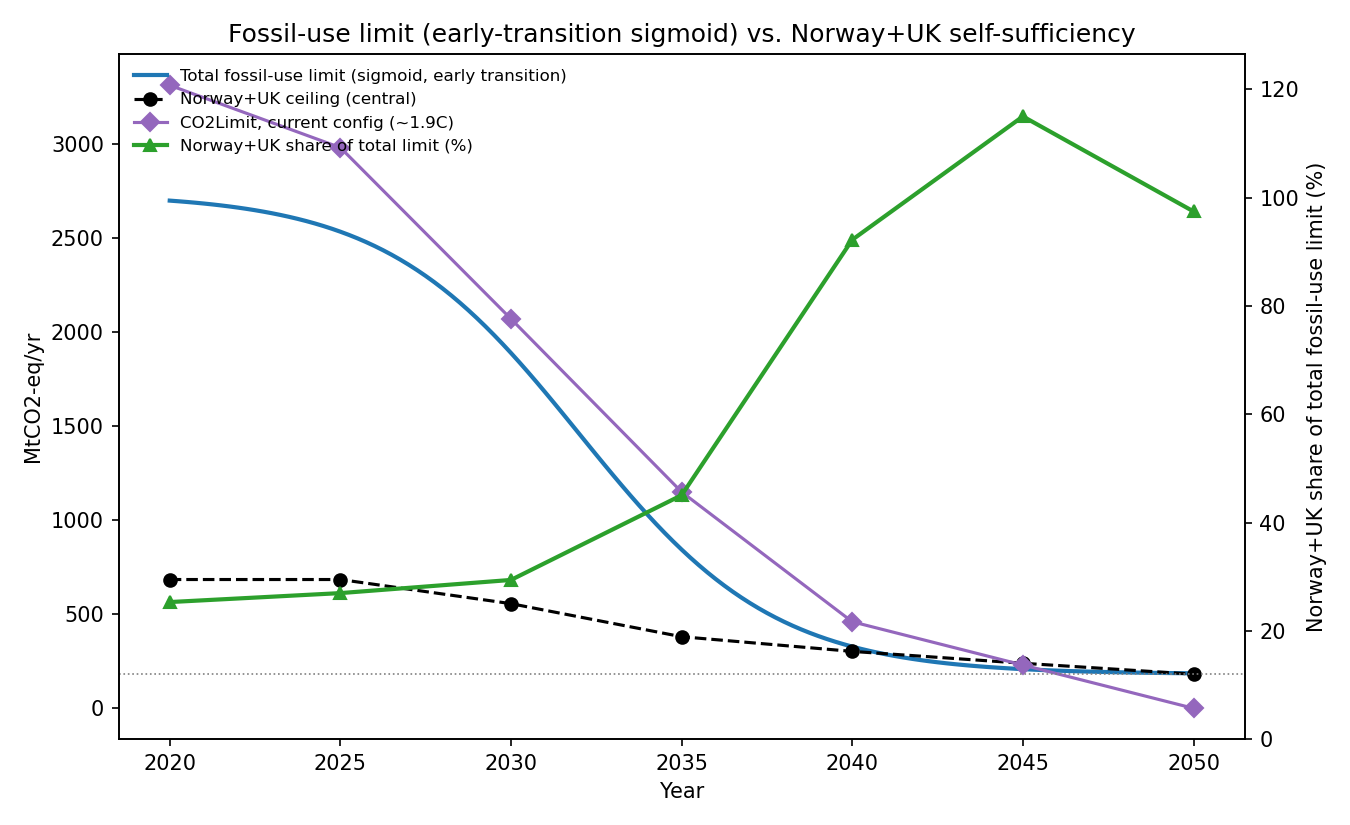
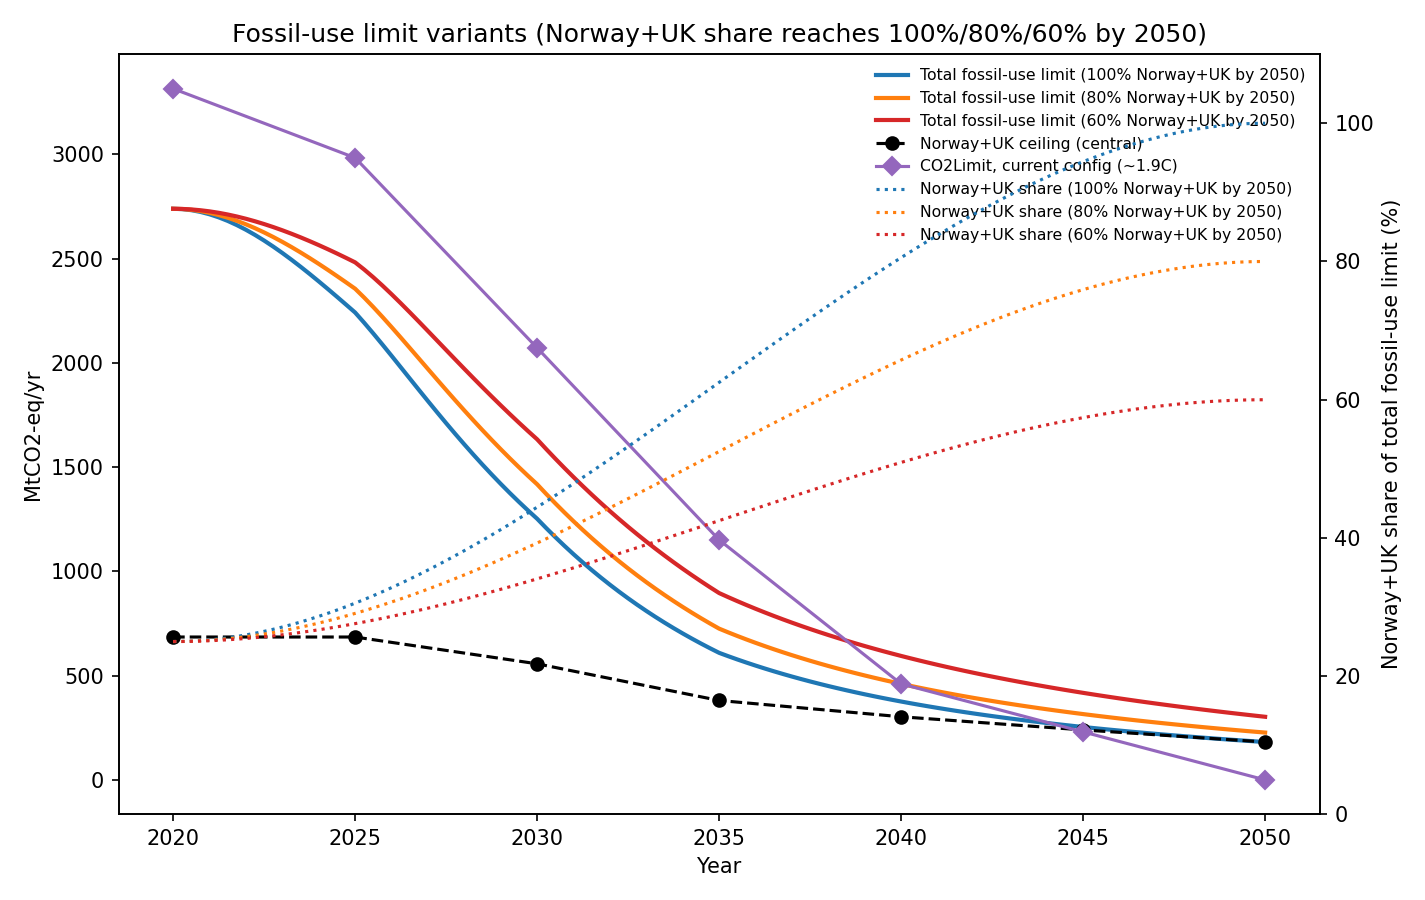
Rebuild fossil-limit curves so Norway+UK share is bounded by construction
The previous single "early transition" sigmoid was picked freehand and
then checked for its Norway+UK share after the fact -- which broke,
producing a >100% share at 2045 for that variant (physically impossible:
can't supply more than exists).

New method: define the SHARE curve directly (NO+UK(t) / limit(t)) using a
smoothstep polynomial (3x^2-2x^3) that starts at the real 2020 share
(~25.0%, NO+UK(2020)/ANCHOR_2020) and hits an EXACT target share at 2050
(unlike a logistic sigmoid, which only approaches its asymptote). Then
invert to get the total-limit curve: limit(t) = NO+UK(t) / share(t).

Three variants (100%/80%/60% Norway+UK self-sufficiency by 2050), same
shape, different target -- restoring the three-curve comparison the user
asked to see again, with dotted share curves on the secondary axis
colour-matched to their corresponding solid total-limit curve. All three
necessarily agree at 2020 by construction.

Notable finding: the 80%-by-2050 variant's 2040 value (460.5) lands
almost exactly on the current CO2Limit's 2040 value (460.4). All three
variants' 2050 floors sit above CO2Limit's 2050 value of zero, reinforcing
the earlier-flagged security-vs-net-zero tension.

diff --git a/text_docs/scripts/build_fossil_supply_security.py b/text_docs/scripts/build_fossil_supply_security.py
@@ -113,21 +113,51 @@ ceiling[2020] = no_mtco2(2020) + uk_mtco2(2025)  # no UK trend info before 2025;
 FLOOR_2050 = ceiling[2050]
 
 # ---------------------------------------------------------------------------
-# Sigmoid total-fossil-limit transition: ceiling (2020 anchor) -> floor (2050,
-# European-safe supply). Reference: the "early, steep" variant (t0=2032,
-# k=0.35) -- chosen because, unlike the central/late variants, it actually
-# reaches the Norway+UK floor by 2050 rather than still being well above it.
-def sigmoid(year, t0, k, top=ANCHOR_2020_MTCO2, bottom=FLOOR_2050):
-    return bottom + (top - bottom) / (1 + np.exp(k * (year - t0)))
+# Total-fossil-limit curves, constructed so the Norway+UK share is bounded
+# by construction (never exceeds its own 2050 target) rather than picked
+# freehand and checked after the fact (which is how the earlier draft ended
+# up with a >100% share at 2045).
+#
+# Method: define a SHARE curve share(t) = NO+UK(t) / TOTAL(t) directly,
+# using a smoothstep polynomial (3x^2 - 2x^3, x in [0,1]) that starts at the
+# real, empirically-grounded 2020 share (NO+UK(2020) / ANCHOR_2020, ~25%)
+# and reaches EXACTLY a chosen target share at 2050 -- smoothstep is a
+# genuine polynomial, monotonic, and hits both endpoints exactly (unlike a
+# logistic sigmoid, which only approaches its asymptote). Then invert:
+# TOTAL(t) = NO+UK(t) / share(t). Three variants share the same shape,
+# scaled to different 2050 targets (100% / 80% / 60% self-sufficiency),
+# per your request -- all three necessarily agree at 2020 (they all reduce
+# to TOTAL(2020) = ANCHOR_2020 exactly, since share(2020) is defined as
+# NO+UK(2020)/ANCHOR_2020 for every variant).
+def ceiling_continuous(year):
+    return no_mtco2(year) + (uk_mtco2(year) if year >= 2025 else uk_mtco2(2025))
 
-REFERENCE = dict(t0=2032, k=0.35)  # "early transition"
+def smoothstep(x):
+    x = np.clip(x, 0.0, 1.0)
+    return 3 * x**2 - 2 * x**3
+
+SHARE_2020 = ceiling_continuous(2020) / ANCHOR_2020_MTCO2
+
+SHARE_TARGETS = {
+    "100% Norway+UK by 2050": 1.00,
+    "80% Norway+UK by 2050": 0.80,
+    "60% Norway+UK by 2050": 0.60,
+}
+VARIANT_COLORS = {
+    "100% Norway+UK by 2050": "tab:blue",
+    "80% Norway+UK by 2050": "tab:orange",
+    "60% Norway+UK by 2050": "tab:red",
+}
+
+def share_curve(year, target):
+    x = (year - 2020) / (2050 - 2020)
+    return SHARE_2020 + (target - SHARE_2020) * smoothstep(x)
+
+def total_curve(year, target):
+    return ceiling_continuous(year) / share_curve(year, target)
 
 years_fine = np.linspace(2020, 2050, 121)
 ceiling_years = sorted(ceiling)
-
-sig_years = YEARS
-sig_vals = {y: sigmoid(y, **REFERENCE) for y in sig_years}
-ratio = {y: 100 * ceiling[y] / sig_vals[y] for y in sig_years}
 
 # Current CO2Limit trajectory (net, CCS-credited), from this config's
 # co2_budget fractions of 1990 levels -- corresponds to a ~1.9C global
@@ -141,29 +171,33 @@ CO2LIMIT_1P9C = {2020: 3314.9, 2025: 2983.3, 2030: 2071.8, 2035: 1151.0,
                  2040: 460.4, 2045: 230.2, 2050: 0.0}
 
 # ---------------------------------------------------------------------------
-# Single combined plot: left axis = MtCO2-eq/yr (sigmoid, NO+UK ceiling,
-# CO2Limit); right axis = NO+UK share of the sigmoid (%).
-fig, ax1 = plt.subplots(figsize=(9, 5.5))
-ax1.plot(years_fine, [sigmoid(y, **REFERENCE) for y in years_fine], color="tab:blue", lw=2,
-          label="Total fossil-use limit (sigmoid, early transition)")
+# Single combined plot: left axis = MtCO2-eq/yr (three total-limit curves,
+# NO+UK ceiling, CO2Limit); right axis = the three share curves, dotted,
+# each colour-matched to its total-limit curve.
+fig, ax1 = plt.subplots(figsize=(9.5, 6))
+ax2 = ax1.twinx()
+
+for label, target in SHARE_TARGETS.items():
+    color = VARIANT_COLORS[label]
+    ax1.plot(years_fine, [total_curve(y, target) for y in years_fine], color=color, lw=2,
+              label=f"Total fossil-use limit ({label})")
+    ax2.plot(years_fine, [100 * share_curve(y, target) for y in years_fine], color=color,
+              lw=1.5, ls=":", label=f"Norway+UK share ({label})")
+
 ax1.plot(ceiling_years, [ceiling[y] for y in ceiling_years], "o--", color="black", lw=1.5,
           label="Norway+UK ceiling (central)")
 ax1.plot(list(CO2LIMIT_1P9C), list(CO2LIMIT_1P9C.values()), "D-", color="tab:purple",
           lw=1.5, label="CO2Limit, current config (~1.9C)")
-ax1.axhline(FLOOR_2050, color="grey", lw=0.8, ls=":")
 ax1.set_xlabel("Year")
 ax1.set_ylabel("MtCO2-eq/yr")
 
-ax2 = ax1.twinx()
-ax2.plot(sig_years, [ratio[y] for y in sig_years], "^-", color="tab:green", lw=2,
-          label="Norway+UK share of total limit (%)")
 ax2.set_ylabel("Norway+UK share of total fossil-use limit (%)")
-ax2.set_ylim(0, max(110, max(ratio.values()) * 1.1))
+ax2.set_ylim(0, 110)
 
 lines1, labels1 = ax1.get_legend_handles_labels()
 lines2, labels2 = ax2.get_legend_handles_labels()
-ax1.legend(lines1 + lines2, labels1 + labels2, loc="upper left", fontsize=8)
-ax1.set_title("Fossil-use limit (early-transition sigmoid) vs. Norway+UK self-sufficiency")
+ax1.legend(lines1 + lines2, labels1 + labels2, loc="upper right", fontsize=7.5)
+ax1.set_title("Fossil-use limit variants (Norway+UK share reaches 100%/80%/60% by 2050)")
 fig.tight_layout()
 fig.savefig(f"{out_dir}/fossil_supply_security.png", dpi=150)
 plt.close(fig)
@@ -174,11 +208,13 @@ for y in ceiling_years:
     print(f"  {y}: NO={no_mtco2(y):.1f}  UK={uk_mtco2(y) if y>=2025 else float('nan'):.1f}  total={ceiling[y]:.1f}")
 print(f"\nUK decay fit: e0={UK_E0_TWH:.1f} TWh/yr, budget={UK_BUDGET_TWH:.1f} TWh, m={UK_M:.4f}/yr")
 print(f"UK blended intensity: {UK_BLENDED_INTENSITY:.4f} tCO2/MWh")
-print(f"\nFLOOR_2050 (Norway+UK central): {FLOOR_2050:.1f} MtCO2-eq/yr")
+print(f"\nSHARE_2020 (Norway+UK / ANCHOR_2020): {SHARE_2020*100:.1f}%")
 print(f"ANCHOR_2020: {ANCHOR_2020_MTCO2} MtCO2-eq/yr")
-print("\nEarly-transition sigmoid vs Norway+UK ceiling vs CO2Limit, and ratio:")
-for y in sig_years:
-    print(f"  {y}: sigmoid={sig_vals[y]:.1f}  NO+UK_ceiling={ceiling[y]:.1f}  "
-          f"CO2Limit={CO2LIMIT_1P9C.get(y)}  ratio={ratio[y]:.1f}%")
+print("\nThree total-limit variants vs Norway+UK ceiling vs CO2Limit:")
+for label, target in SHARE_TARGETS.items():
+    print(f"\n-- {label} --")
+    for y in YEARS:
+        print(f"  {y}: total={total_curve(y, target):.1f}  NO+UK_ceiling={ceiling[y]:.1f}  "
+              f"CO2Limit={CO2LIMIT_1P9C.get(y)}  share={100*share_curve(y, target):.1f}%")
 
 print(f"\nSaved {out_dir}/fossil_supply_security.png")

diff --git a/text_docs/text/fossil_supply_security_methodology.md b/text_docs/text/fossil_supply_security_methodology.md
@@ -44,9 +44,26 @@ conserved physical quantity (bounded by geology, not politics). The UK
 component of the Norway+UK ceiling (Section 4.2) legitimately reuses the
 exact Victoria et al. formula for exactly this reason.
 
-## 3. The sigmoid — total fossil-use limit, 2020-2050
+## 3. The total fossil-use limit curves, 2020-2050
 
-`limit(t) = floor + (ceiling - floor) / (1 + exp(k(t - t0)))`
+**Construction method (revised)**: an earlier draft picked a sigmoid shape
+`limit(t) = floor + (ceiling - floor) / (1 + exp(k(t-t0)))` freehand and
+then *checked* the resulting Norway+UK share after the fact — which broke,
+producing a >100% share at 2045 for one variant. The share cannot exceed
+100% by definition (Norway+UK cannot supply more than exists), so the
+share needs to be bounded **by construction**, not by accident.
+
+Fixed method: define the **share** curve `share(t) = NO+UK(t) / limit(t)`
+directly, using a **smoothstep polynomial** `3x^2 - 2x^3` (`x` normalized
+to [0,1] over 2020-2050) — a genuine polynomial, monotonic, and one that
+hits both of its endpoints *exactly* (unlike a logistic sigmoid, which only
+asymptotically approaches its limit). `share(2020)` is fixed at the real,
+empirically-grounded value `NO+UK(2020) / ceiling` (~25.0%) for every
+variant; `share(2050)` is set to a chosen target (100%, 80%, or 60%
+self-sufficiency). Then invert: `limit(t) = NO+UK(t) / share(t)`. Because
+all three variants share the same `share(2020)`, they necessarily all
+start at exactly the same 2020 point (`limit(2020) = ceiling` for every
+variant), diverging only as they head toward different 2050 outcomes.
 
 - **Ceiling** (2020, genuine historical actual — not a proxy): **2739.0
   MtCO2-eq/yr**. Computed from **Eurostat's Complete Energy Balances**
@@ -79,16 +96,23 @@ exact Victoria et al. formula for exactly this reason.
   this config's own assumed `fossil_limit_values[2025] = 2600` — a
   reassuring independent cross-validation of that existing assumption.
 - **Floor** (2050): the Norway+UK production ceiling, **181.6 MtCO2-eq/yr**
-  central case (Section 4).
-- **t0, k** (inflection year, steepness): three shapes were originally
-  compared (early/steep, central/medium, late/gradual). **"Early transition"
-  (t0=2032, k=0.35) is now used as the single reference curve**, because it
-  is the only one of the three that actually reaches the Norway+UK floor by
-  2050 (186.3 MtCO2-eq at 2050, vs. the floor's 181.6) — the central and
-  late variants were still well above the floor at 2050, which would have
-  meant "European-safe by 2050" wasn't actually achieved under those
-  shapes. This is still a placeholder choice for discussion, not derived
-  from anything beyond that consistency requirement.
+  central case (Section 4) — this is exactly the "100% by 2050" variant's
+  endpoint; the 80% and 60% variants have higher 2050 endpoints (227.0 and
+  302.7 MtCO2-eq respectively), since they deliberately leave room for
+  non-European sources (Africa pipeline + LNG) even at 2050.
+- **Three variants**, same shape, different 2050 self-sufficiency target:
+
+  | Variant | Share(2020) | Share(2050) | Total limit(2050) |
+  |---|---:|---:|---:|
+  | 100% Norway+UK by 2050 | 25.0% | 100.0% | 181.6 |
+  | 80% Norway+UK by 2050 | 25.0% | 80.0% | 227.0 |
+  | 60% Norway+UK by 2050 | 25.0% | 60.0% | 302.7 |
+
+  The shape/steepness itself (how fast the share climbs between 2020 and
+  2050) is still a free choice baked into the smoothstep polynomial's fixed
+  form — this is the remaining "shape matters in the middle years"
+  question, now scoped to just that, rather than also needing to separately
+  verify the share stays bounded.
   See `fossil_supply_security.png` (single combined figure, Section 4.3).
 
 ## 4. The Norway+UK ceiling ("European-safe" fossil supply)
@@ -152,35 +176,46 @@ downloaded but is the 2019 vintage, not the current one — see open items).
 
 ### 4.3. Combined ceiling and comparison
 
-| Year | Norway (MtCO2eq) | UK (MtCO2eq) | **NO+UK ceiling** | Sigmoid (early transition) | CO2Limit (~1.9C) | NO+UK share of sigmoid |
-|-----:|------:|------:|------:|------:|------:|------:|
-| 2020 | 529.3 | (n/a, held at 2025 rate) | 685.2 | 2701.2 | 3314.9 | 25.4% |
-| 2025 | 529.3 | 156.0 | 685.2 | 2535.8 | 2983.3 | 27.0% |
-| 2030 | 468.3 |  88.5 | 556.8 | 1890.4 | 2071.8 | 29.5% |
-| 2035 | 348.5 |  32.4 | 380.9 |  844.5 | 1151.0 | 45.1% |
-| 2040 | 292.6 |  10.2 | 302.8 |  328.2 |  460.4 | 92.3% |
-| 2045 | 236.7 |   3.0 | 239.7 |  208.3 |  230.2 | **115.0%** |
-| 2050 | 180.8 |   0.8 | 181.6 |  186.3 |    0.0 | 97.5% |
+All three variants share the same 2020 point (`limit(2020) = 2739.0`,
+`share = 25.0%`) by construction, and reach their target share EXACTLY at
+2050 — no more checking after the fact whether the share exceeded 100%.
 
-**The key finding**: under the early-transition sigmoid, Norway+UK
-self-sufficiency climbs sharply from ~25-30% in 2020-2030 to ~45% by 2035
-and **over 90% by 2040**, briefly exceeding 100% in 2045 — meaning by the
-early-2040s Norway+UK alone could, in principle, supply as much fossil
-energy as the security-driven sigmoid even allows. The years where
-security-of-supply is clearly the *binding* concern are **2020-2035**,
-where 55-75% of allowed fossil use would still need non-European sources
-(Africa pipeline + LNG, per your framing).
+| Year | NO+UK ceiling | **100% by 2050** total (share) | **80% by 2050** total (share) | **60% by 2050** total (share) | CO2Limit (~1.9C) |
+|-----:|------:|------:|------:|------:|------:|
+| 2020 | 685.2 | 2739.0 (25.0%) | 2739.0 (25.0%) | 2739.0 (25.0%) | 3314.9 |
+| 2025 | 685.2 | 2241.4 (30.6%) | 2355.5 (29.1%) | 2481.9 (27.6%) | 2983.3 |
+| 2030 | 556.8 | 1252.3 (44.5%) | 1417.7 (39.3%) | 1633.3 (34.1%) | 2071.8 |
+| 2035 | 380.9 |  609.3 (62.5%) |  725.4 (52.5%) |  896.0 (42.5%) | 1151.0 |
+| 2040 | 302.8 |  375.9 (80.6%) |  460.5 (65.7%) |  594.5 (50.9%) |  460.4 |
+| 2045 | 239.7 |  253.8 (94.4%) |  315.6 (75.9%) |  417.5 (57.4%) |  230.2 |
+| 2050 | 181.6 |  181.6 (100.0%) |  227.0 (80.0%) |  302.7 (60.0%) |    0.0 |
 
-**A sharper tension worth flagging**: at 2050 the sigmoid (186.3, essentially
-at the Norway+UK floor) sits *above* the current CO2Limit's 2050 value of
-**zero**. These aren't strictly comparable (the sigmoid is a GROSS supply
-measure like `fossil_limit_values`, no CCS credit, while CO2Limit is NET,
-CCS-credited) — but at face value it says full domestic-fossil energy
-security and the model's own net-zero-by-2050 pathway are not
-automatically compatible; reconciling them requires either CCS on
-essentially all of that remaining Norway+UK-sourced supply by 2050, or
-accepting some residual non-zero net fossil use, or a floor slightly below
-what NO+UK could physically still produce.
+**Key findings**:
+- The share now behaves sensibly by construction: monotonically increasing,
+  never exceeding its target, exactly hitting 100%/80%/60% at 2050.
+- Under the **80% by 2050** variant, the total limit at 2040 (460.5) lands
+  almost exactly on the current CO2Limit's 2040 value (460.4) — a striking,
+  probably coincidental, crossing point worth noting but not over-reading.
+- The **100% by 2050** variant declines faster than CO2Limit throughout —
+  it's below CO2Limit at every year from 2025 onward, meaning a full
+  domestic-only security target would be *more* restrictive than the
+  current climate target alone in the near term (2025-2040), even though by
+  2050 the two converge in spirit (security floor 181.6 vs. climate target
+  of exactly 0 — see the tension noted below).
+- The **60% by 2050** variant stays above CO2Limit until 2040, then falls
+  below it — the most forgiving of the three, leaving room for non-European
+  sources throughout.
+
+**A tension worth flagging regardless of variant**: at 2050 all three
+security-driven totals (181.6 / 227.0 / 302.7) sit *above* the current
+CO2Limit's 2050 value of **zero**. These aren't strictly comparable (the
+security totals are GROSS supply measures like `fossil_limit_values`, no
+CCS credit, while CO2Limit is NET, CCS-credited) — but at face value it
+says full (or even partial) domestic-fossil energy security and the
+model's own net-zero-by-2050 pathway are not automatically compatible;
+reconciling them requires either CCS on most of that remaining
+Norway+UK-sourced supply by 2050, or accepting some residual non-zero net
+fossil use, or a self-sufficiency target below 100%.
 
 See `fossil_supply_security.png` for the combined figure.
 
